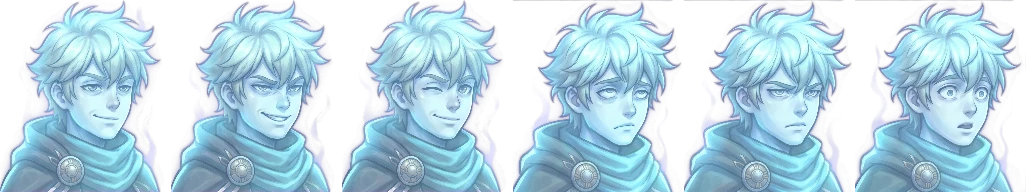
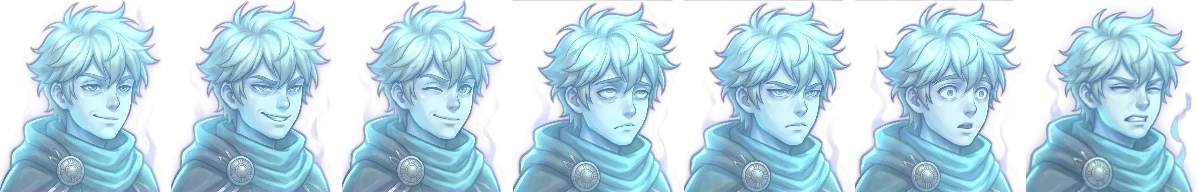
Guide pained portrait: 7th frame of guide2.webp
Generated in Flow from the first guide sheet, cut and lined up with the other six faces.

diff --git a/docs/PROMPTS.md b/docs/PROMPTS.md
@@ -337,6 +337,10 @@ One image per character with every expression in a grid, so the face stays consi
 4. **The guide, extra faces → `guide-faces-2.png`** (same style block, attach the guide sheet so the ghost look matches)
    > An expression sheet of the attached translucent blue-white ghost (the same character, playful and mischievous), 6 portraits in a grid of 3 columns and 2 rows, in this order: 1. a smug grin; 2. mischievous, a scheming grin with narrowed eyes; 3. teasing, a playful wink; 4. exasperated, rolling his eyes; 5. a serious warning, stern, no smile; 6. genuinely surprised, eyes wide. Wide 3:2.
 
+5. **The guide, pained → `guide-pained.png`** (Flow, Nano Banana 2.1, 1:1; same style block; attach the first guide sheet `raw/portraits/guide-faces.jpg` so the ghost look matches). One face, cut to a 171×192 cell and appended to `guide2.webp` as its 7th frame.
+   > One single portrait of the ghost from the attached expression sheet: exactly the same character, the same translucent blue-white ghost, face, hair, scarf, framing and size as one cell of the sheet. Expression: hurt and breaking apart, wincing with brows pulled together, eyes squeezed half shut, mouth tight and slightly open in pain, head tilted a little down. No cracks, no fragments, no effects painted on. Only one portrait in the image, not a sheet; do not include the attached sheet itself.
+   Cut: the raw padded with magenta to 2300×2400 (centred), then `art.mjs --key --crop=214,112,1824,2048 --height=192` lines its face, eyes and brooch up with the other cells; appended as frame 7.
+
 ## Drawn in code
 
 The souls (the hero's frames tinted blue, with flames), the ghost guide, light beams and glows.

diff --git a/docs/ASSETS.md b/docs/ASSETS.md
@@ -130,7 +130,7 @@ Script: [STORY.md](STORY.md); § = the scene each asset serves. Done in priority
 | Asset | Notes | Prompt | Ref | Sheet | Sized | In game |
 |---|---|---|---|---|---|---|
 | Hero expressions 2 → `assets/portraits/hero2.webp` | curious, annoyed, excited, scared, shouting, cocky (= `FACES2.hero` order in dialogue.js). Attach `hero.jpg` + the first sheet (`raw/portraits/hero-faces.jpg`) so face and framing match. Cut: `sheet.mjs <raw> <out> --grid --frames=3 --rows=2 --height=192` | ✅ PROMPTS item 3 | — | ✅ | ✅ | ✅ |
-| Guide **pained** face (requested 2026-11-05: his last-stand lines ask for it; until then they show his weary face) | one more guide portrait matching the first sheet: hurt, wincing, eyes half shut, breaking apart | | | | | |
+| Guide **pained** face → 7th frame of `assets/portraits/guide2.webp` (index 6) | hurt, wincing, eyes squeezed, teeth gritted; his last-stand lines (until "pained" points to it they show his weary face) | ✅ PROMPTS portraits item 5 | — | ✅ | ✅ | ✅ |
 | Guide expressions 2 → `assets/portraits/guide2.webp` | smug, mischievous, teasing, exasperated, warning, surprised (= `FACES2.guide`). Attach the first guide sheet so the ghost look matches. Same cut | ✅ PROMPTS item 4 | — | ✅ | ✅ | ✅ |
 
 **Priority 2: World 1 scene sounds** (in the game now, silent). Prompts in the Audio section below.
